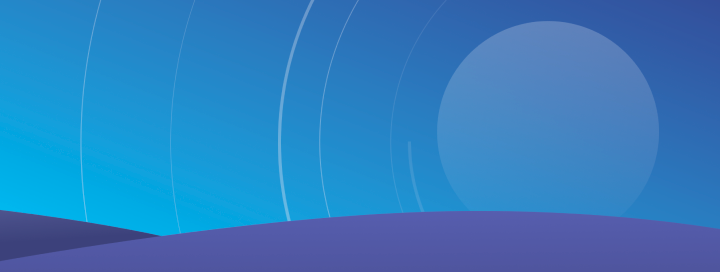
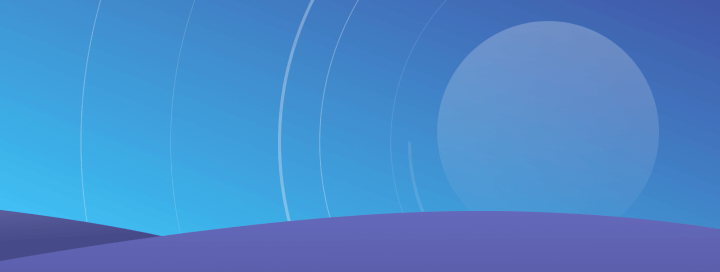
opt:1)压缩背景大图,2)代码打包优化.fix:1)发送图片消息不展示.2)登陆无缓存导致读取默认appkey失败

diff --git a/src/hooks/useCreateMessage.js b/src/hooks/useCreateMessage.js
@@ -148,17 +148,6 @@ const createMsgBody = (msg) => {
       length: msg.length,
       filename: msg.filename,
     },
-    [ALL_MESSAGE_TYPE.IMAGE]: {
-      chatType: msg.chatType,
-      type: msg.type,
-      ext: msg.ext || {},
-      from: msg.from || '',
-      id: msg.id,
-      customEvent: msg.customEvent || '',
-      customExts: msg.customExts || {},
-      time: msg.time,
-      to: msg.to,
-    },
     [ALL_MESSAGE_TYPE.CUSTOM]: {
       chatType: msg.chatType,
       type: msg.type,

diff --git a/src/IM/initwebsdk.js b/src/IM/initwebsdk.js
@@ -3,7 +3,7 @@ import Easemob_SDK from 'easemob-websdk';
 // 读取自定义配置（因demo需要自定义配置，非必须）
 
 const webimConfig = window.localStorage.getItem('webimConfig');
-const CUSTOM_CONFIG = webimConfig && JSON.parse(webimConfig);
+const CUSTOM_CONFIG = (webimConfig && JSON.parse(webimConfig)) || {};
 console.log('>>>>>>webimConfig', CUSTOM_CONFIG);
 //环信appKey默认配置项
 const DEFAULT_APPKEY = 'easemob-demo#support';

diff --git a/vue.config.js b/vue.config.js
@@ -6,4 +6,12 @@ module.exports = defineConfig({
     host: 'localhost',
     port: 9001,
   },
+  chainWebpack: (config) => {
+    //最小化代码
+    config.optimization.minimize(true);
+    //分割代码
+    config.optimization.splitChunks({
+      chunks: 'all',
+    });
+  },
 });
